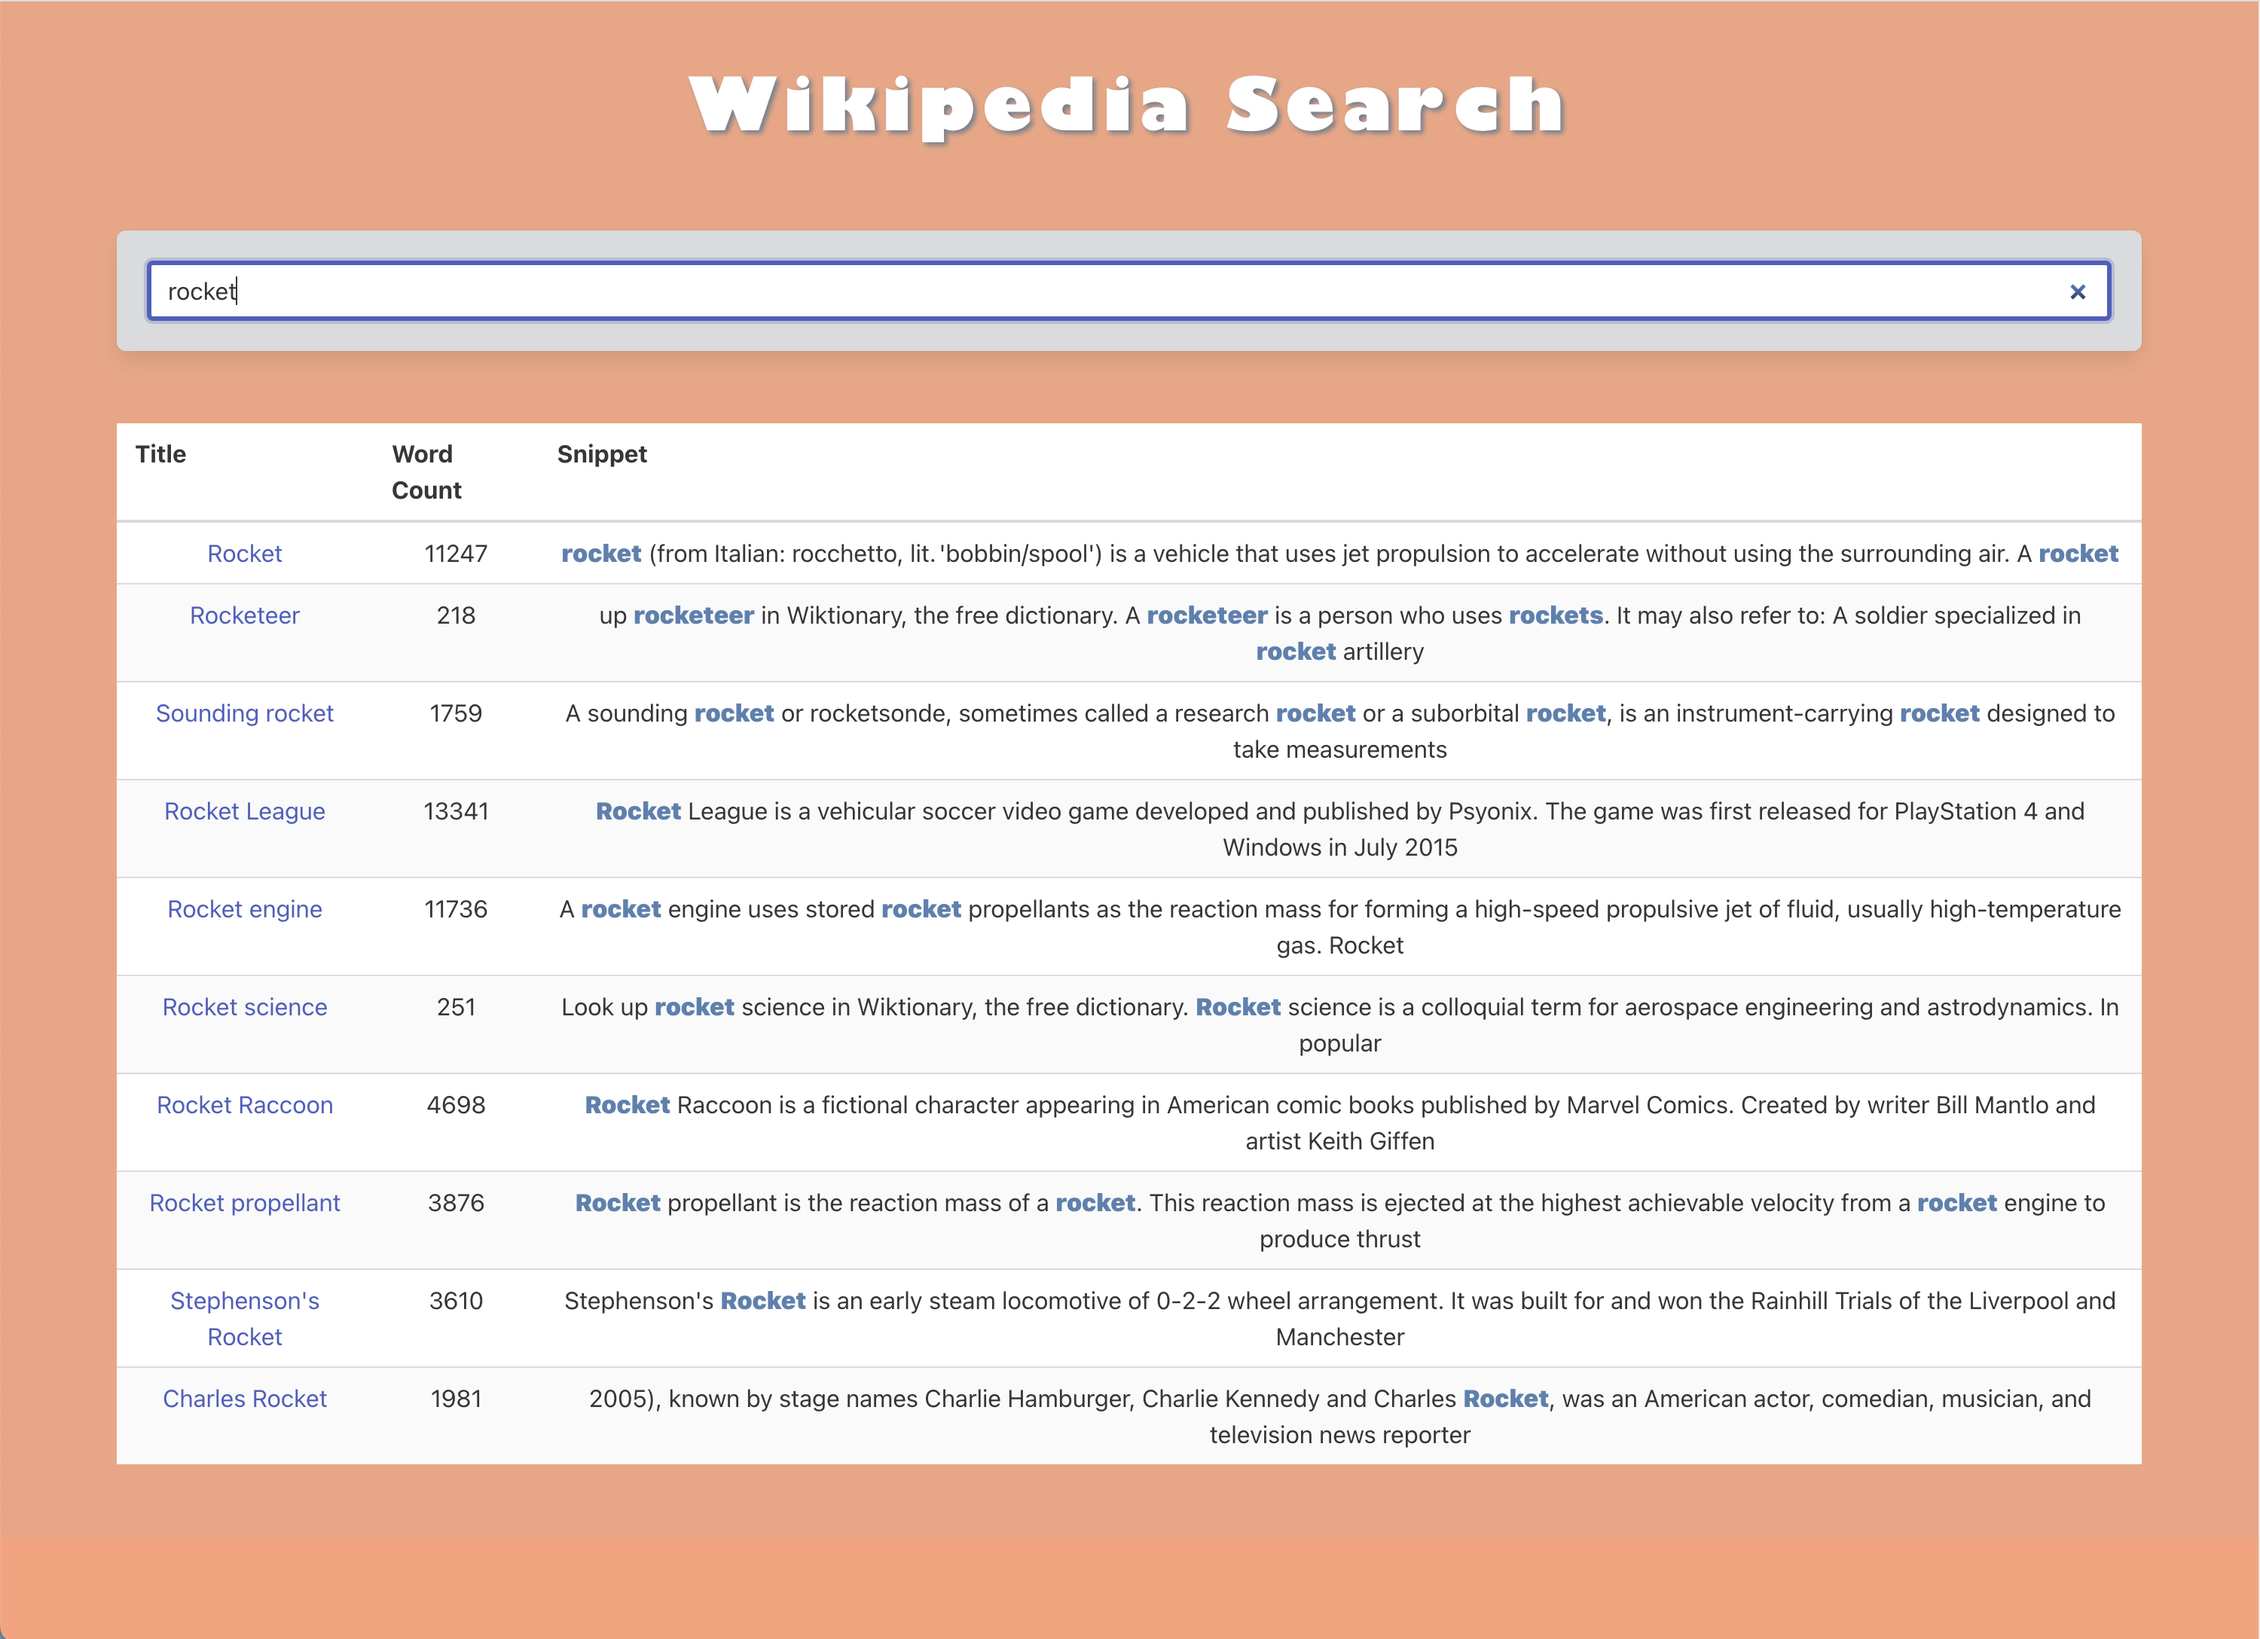
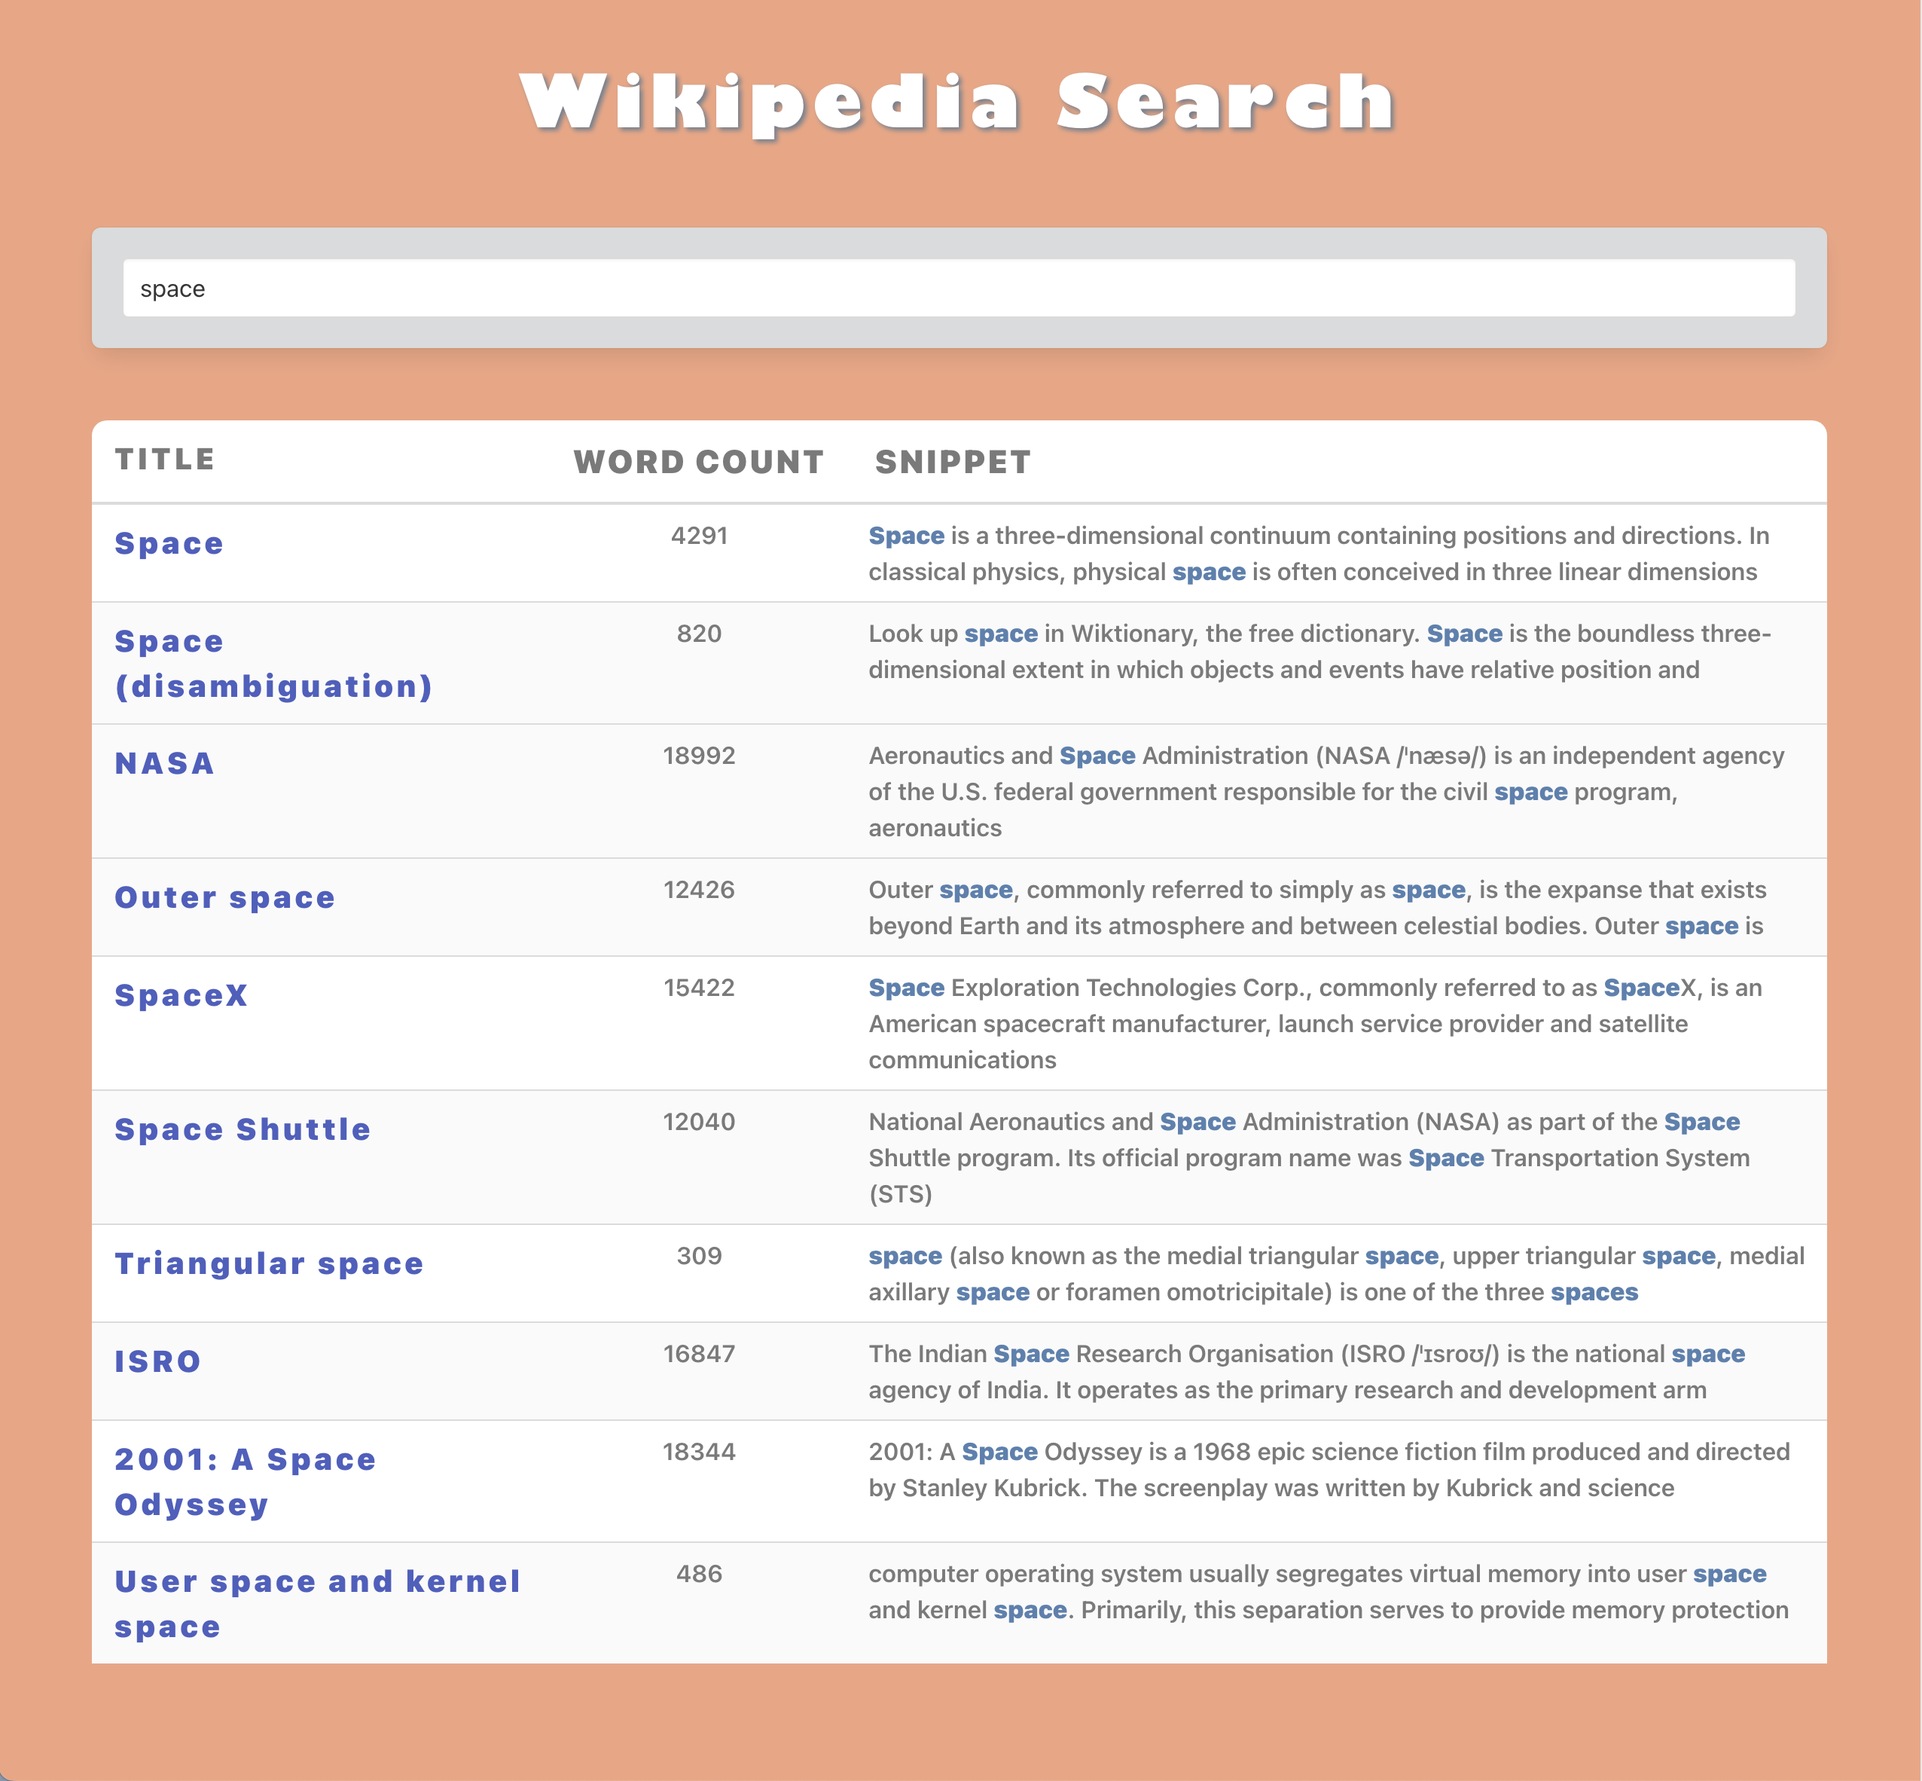
added additional styling, updated README with new screenshot

diff --git a/src/app/page-list/page-list.component.html b/src/app/page-list/page-list.component.html
@@ -1,18 +1,18 @@
-<table class="table is-striped">
+<table class="table is-striped is-hoverable is-fullwidth">
   <thead>
     <tr>
-      <th>Title</th>
-      <th>Word Count</th>
-      <th>Snippet</th>
+      <th class="article-title is-uppercase has-text-grey">Title</th>
+      <th class="word-count is-uppercase has-text-grey">Word Count</th>
+      <th class="snippet is-uppercase has-text-grey">Snippet</th>
     </tr>
   </thead>
   <tbody>
-    <tr *ngFor="let page of pages">
-      <td>
+    <tr *ngFor="let page of pages" class="table-row">
+      <td class="article-title">
         <a target="_blank" [href]="'https://en.wikipedia.org?curid=' + page.pageid">{{ page.title }}</a>
       </td>
-      <td>{{ page.wordcount }}</td>
-      <td [innerHTML]="page.snippet"></td>
+      <td class="word-count has-text-grey has-text-weight-semibold">{{ page.wordcount }}</td>
+      <td class="snippet has-text-grey has-text-weight-semibold" [innerHTML]="page.snippet"></td>
     </tr>
   </tbody>
 </table>

diff --git a/src/app/page-list/page-list.component.css b/src/app/page-list/page-list.component.css
@@ -1,3 +1,34 @@
-th, td {
-    min-width: 50px;
+table {
+    border-top-left-radius: 10px;
+    border-top-right-radius: 10px;
+    margin-bottom: 2rem;
+}
+
+th {
+  font-size: 1.35rem;
+  font-weight: 900;
+  letter-spacing: 0.1rem;
+  color: gray;
+}
+
+.word-count {
+  min-width: 50px;
+  white-space: nowrap;
+}
+
+.article-title,
+.snippet {
+  text-align: left;
+}
+
+.article-title {
+  font-size: 1.25rem;
+  font-weight: 900;
+  letter-spacing: 0.15rem;
+}
+
+/* Apply border radius to the second-to-last <tr> element */
+table tbody tr.table-row:last-child {
+    border-bottom-left-radius: 10px !important;
+    border-bottom-right-radius: 10px !important;
 }

diff --git a/src/styles.css b/src/styles.css
@@ -5,7 +5,8 @@ body {
   background-color: lightsalmon;
   color: white;
   text-align: center;
-  height: 100vh;
+  min-height: 100vh;
+  padding-bottom: 2rem;
 }
 
 h1 {
@@ -22,8 +23,6 @@ input {
   height: 2rem;
   border-radius: 5px;
   border: 3px white solid;
-  
-
 }
 
 input:focus {
